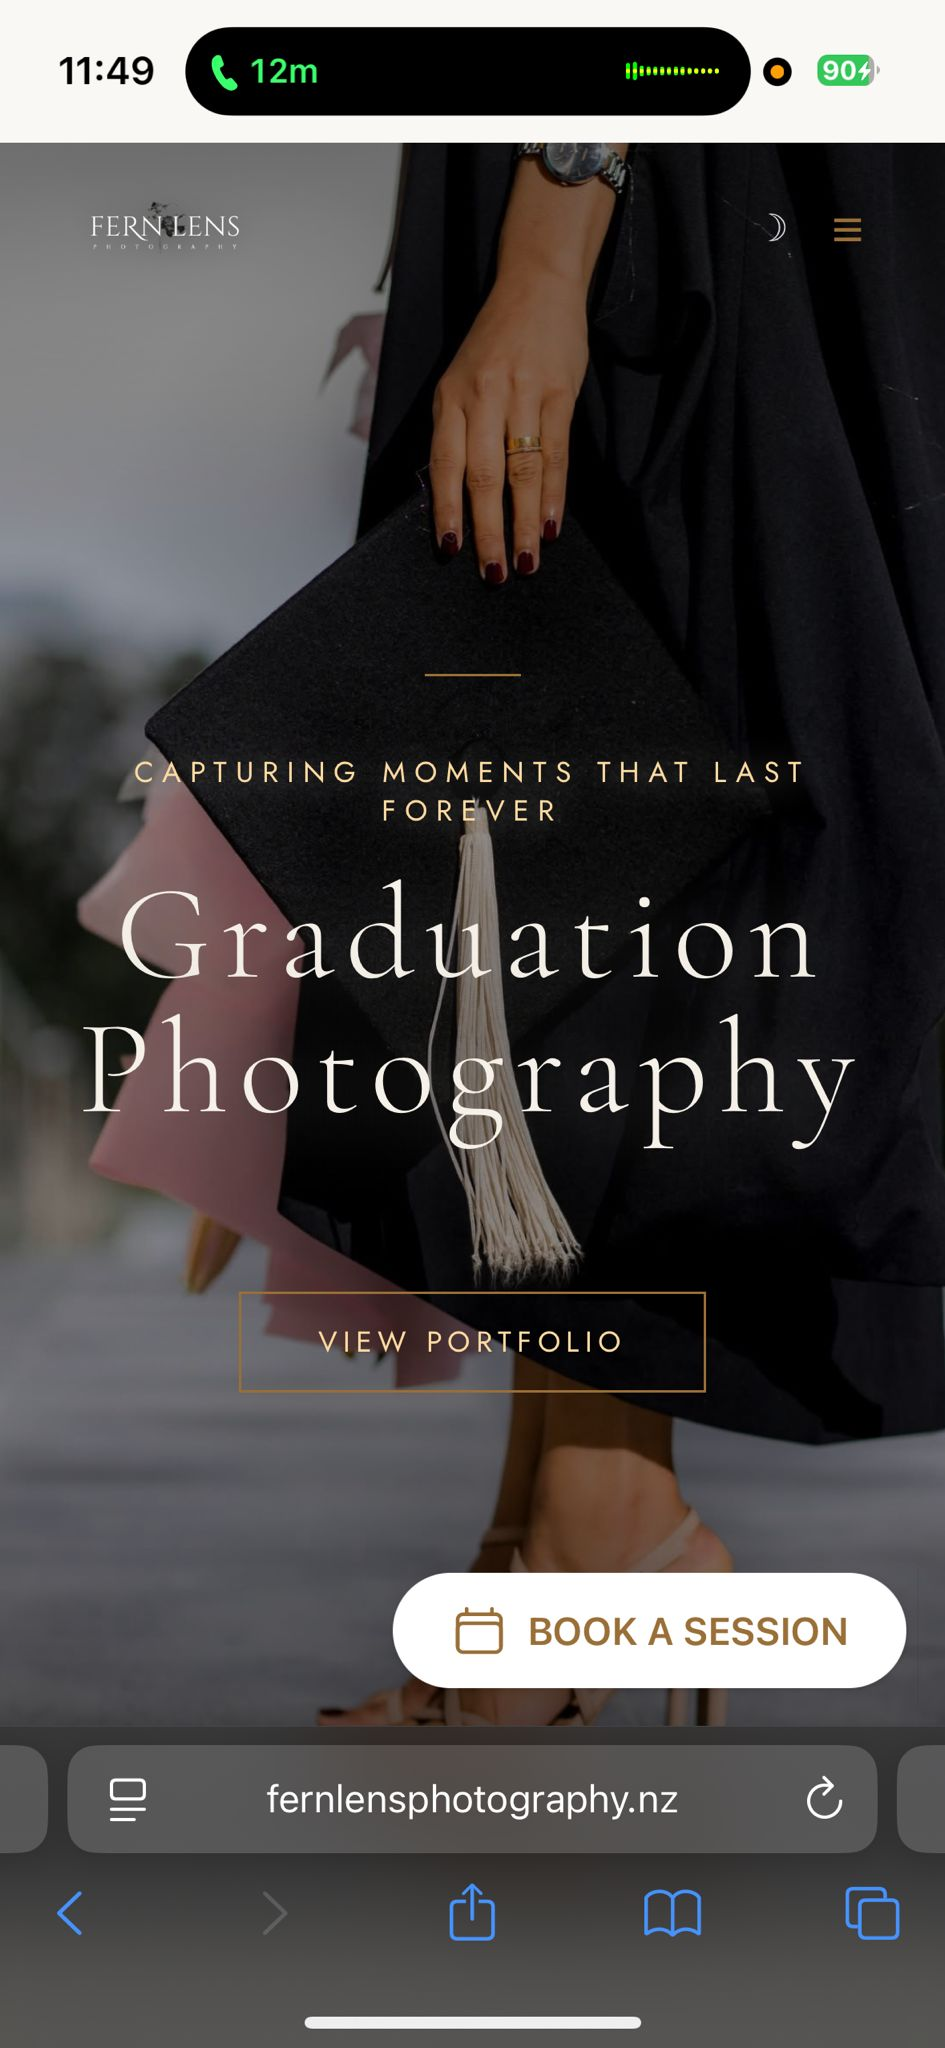
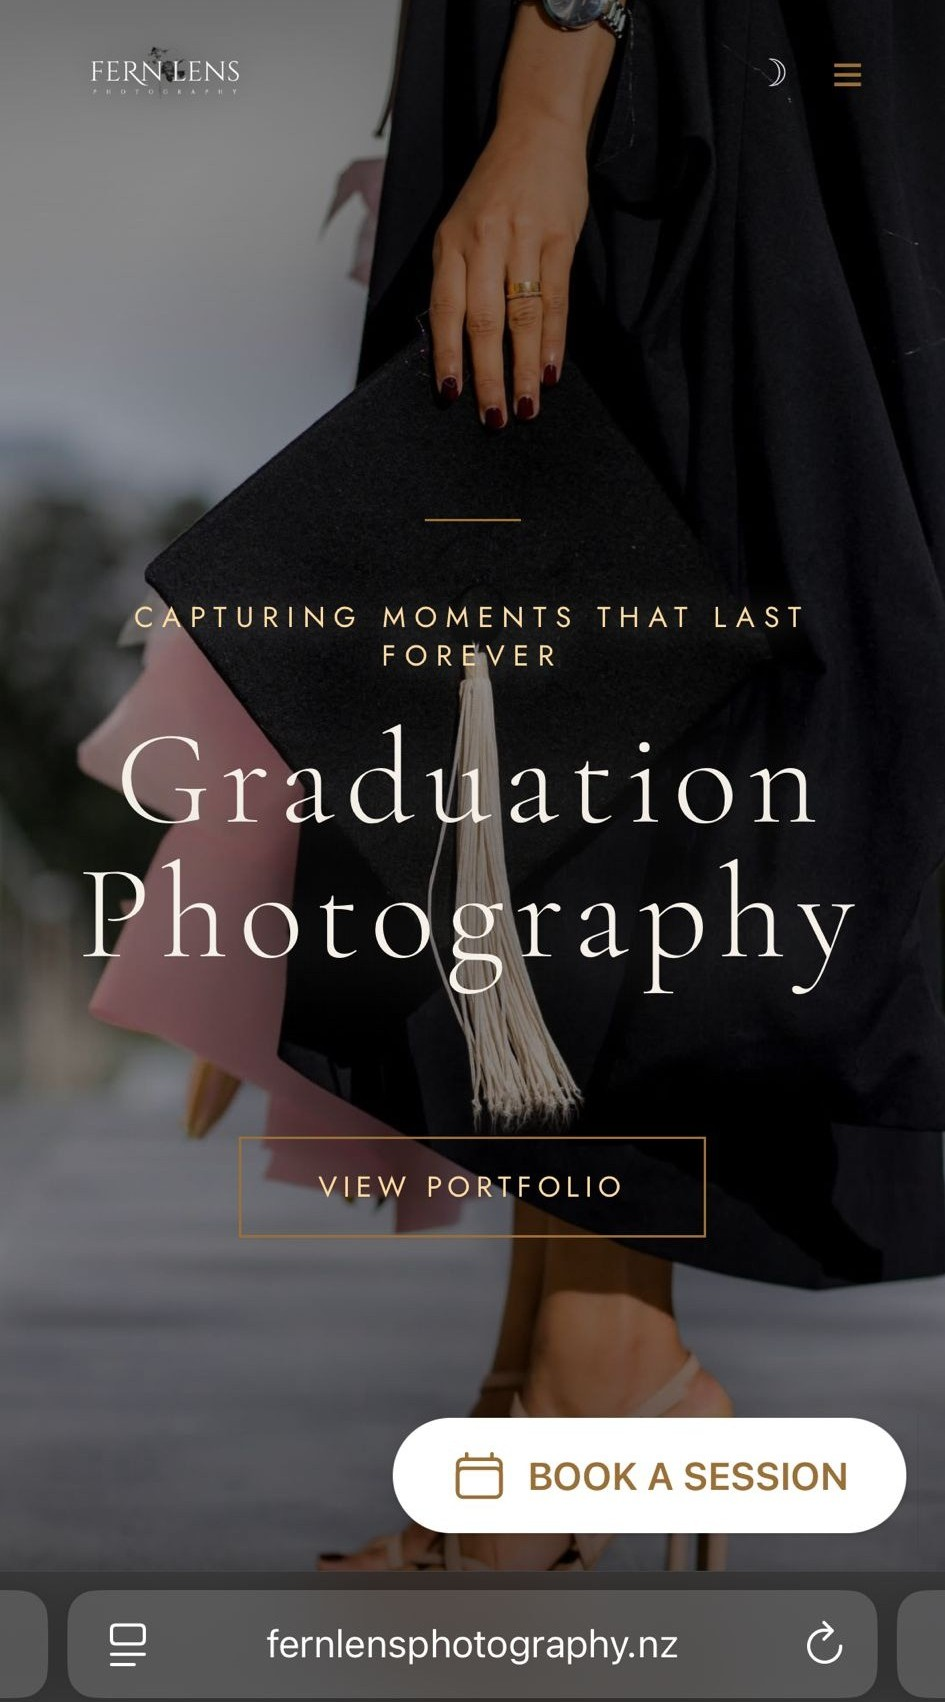
readMe

diff --git a/README.md b/README.md
@@ -22,12 +22,12 @@ A professional photography portfolio website for **Fern Lens Photography**, show
 
 ## ✨ Features
 
-- **Full-screen hero slider** — Rotating photography categories with cinematic overlays (Event Photography, Graduation Photography, and more)
-- **Portfolio gallery** — Curated collections organised by shoot type
-- **Book a Session** — Persistent CTA button for easy client booking
-- **Dark mode toggle** — Moon icon for comfortable browsing in low light
-- **Fully responsive** — Optimised for desktop, tablet, and mobile
-- **Minimal navigation** — Home · Portfolio · About · Contact
+- **Full-screen hero slider** - Rotating photography categories with cinematic overlays (Event Photography, Graduation Photography, and more)
+- **Portfolio gallery** - Curated collections organised by shoot type
+- **Book a Session** - Persistent CTA button for easy client booking
+- **Dark mode toggle** - Moon icon for comfortable browsing in low light
+- **Fully responsive** - Optimised for desktop, tablet, and mobile
+- **Minimal navigation** - Home · Portfolio · About · Contact
 
 ---
 
@@ -50,23 +50,6 @@ A professional photography portfolio website for **Fern Lens Photography**, show
 | Fonts | Serif display + sans-serif body |
 | Hosting | Custom domain via fernlensphotography.nz |
 | Responsive | Mobile-first CSS |
-
----
-
-## 🚀 Getting Started
-
-```bash
-# Clone the repository
-git clone https://github.com/your-username/fern-lens-photography.git
-
-# Navigate into the project
-cd fern-lens-photography
-
-# Open in your browser
-open index.html
-```
-
-> No build tools or dependencies required — pure HTML/CSS/JS.
 
 ---
 
